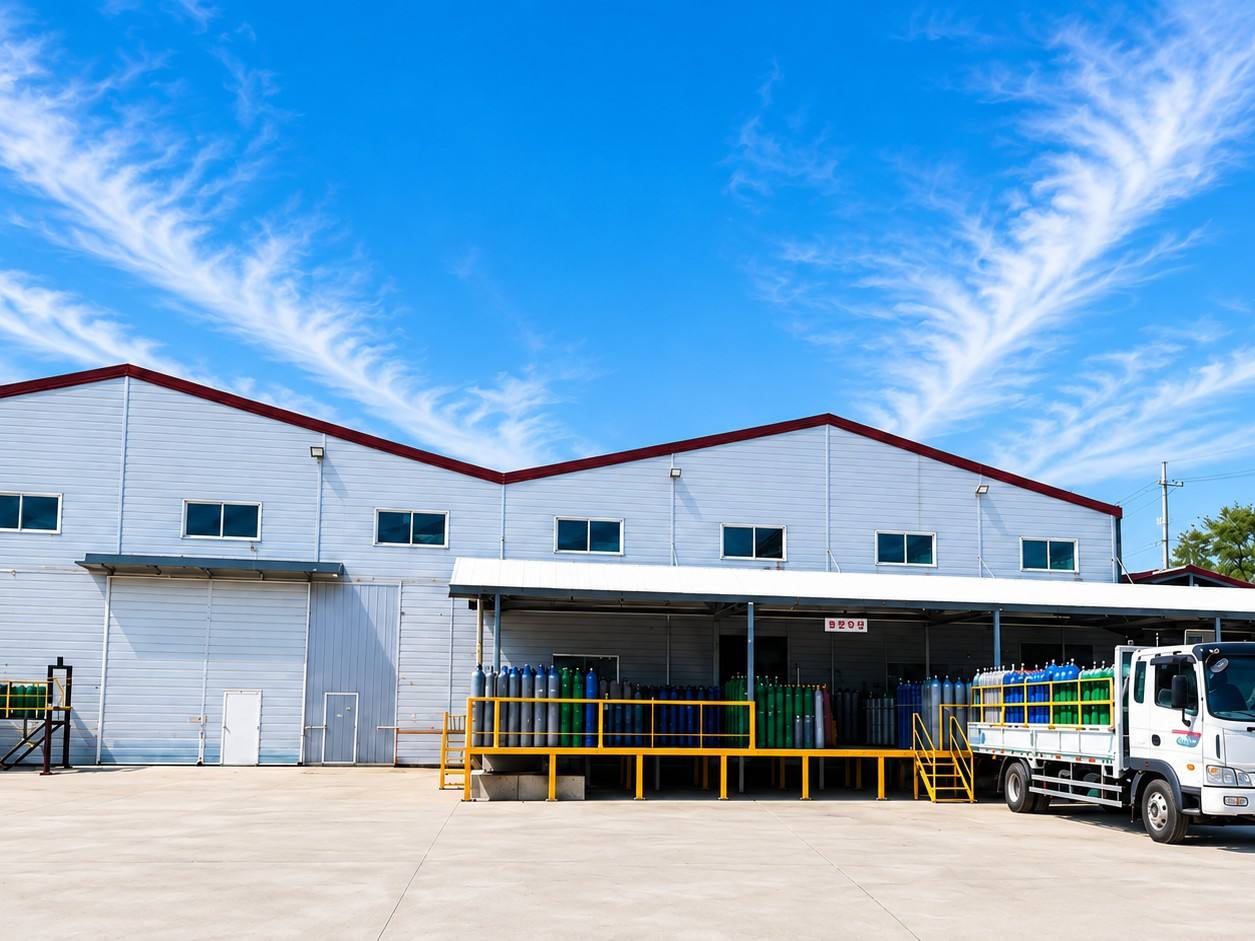
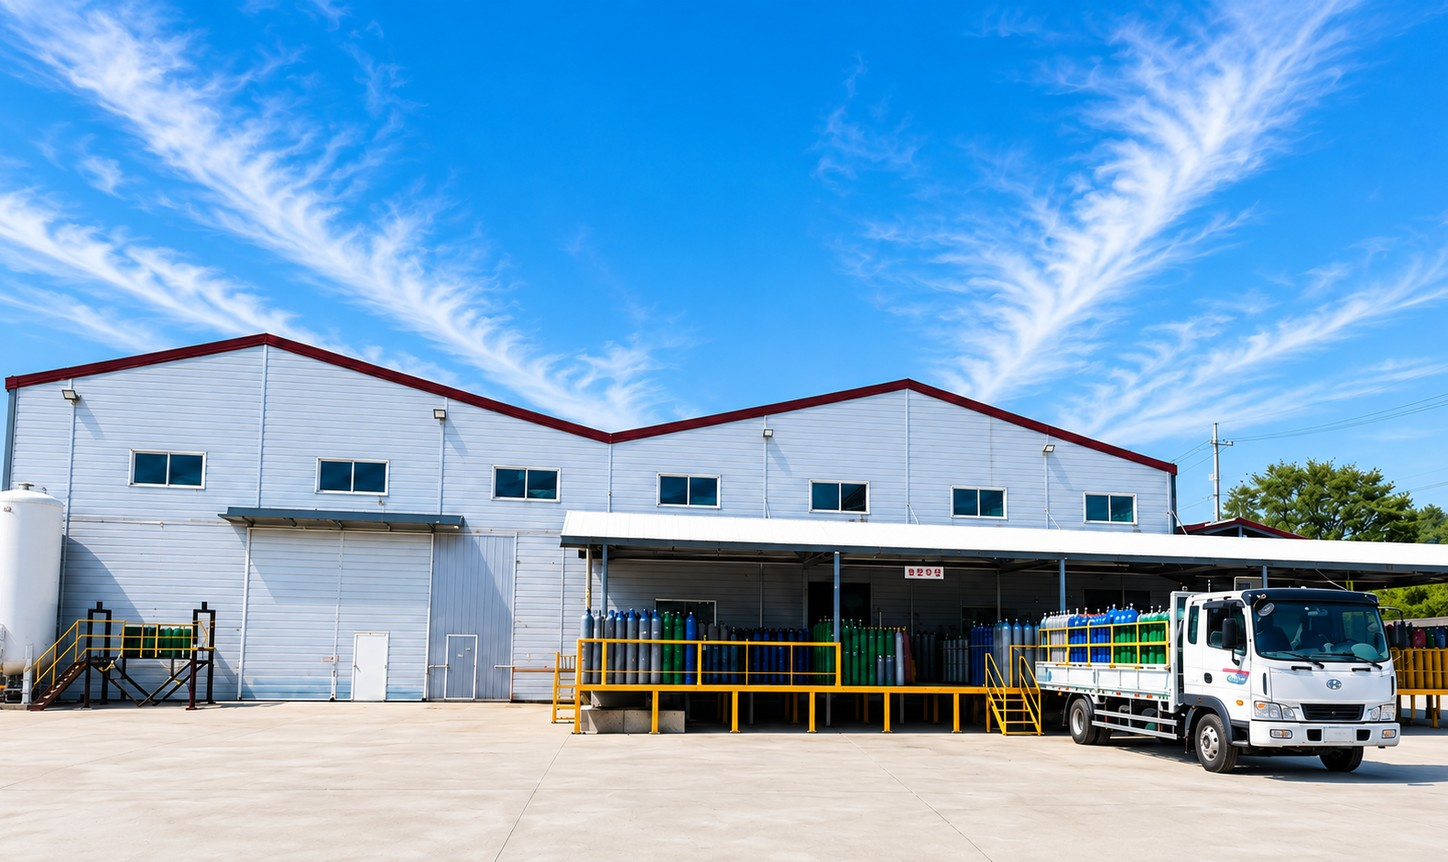
계열사 부성테크니컬: 사진을 화성공장과 동일 비율(1.68)·크기로 전체가 보이게 재크롭·박스 통일·버튼 하단 정렬, 설명 '정밀 검사'→'정밀검사' 붙여쓰기. style.css ?v=808, busung-site.jpg ?v=20260914c

diff --git a/company-network.html b/company-network.html
@@ -7,7 +7,7 @@
   <meta name="description" content="한국탄산화학㈜ 계열사 — 관계사 네트워크.">
   <link rel="stylesheet" href="assets/css/reset.css">
   <link rel="stylesheet" href="assets/css/variables.css?v=20260801">
-  <link rel="stylesheet" href="assets/css/style.css?v=20260731-807">
+  <link rel="stylesheet" href="assets/css/style.css?v=20260731-808">
   <!-- 대표이사 서명용 손글씨 폰트 (한글: Nanum Pen Script, 일어: Yomogi) -->
   <link rel="preconnect" href="https://fonts.googleapis.com">
   <link rel="preconnect" href="https://fonts.gstatic.com" crossorigin>
@@ -217,7 +217,7 @@
                 <h3 class="affpanel__name">㈜부성테크니컬</h3>
                 <span class="affpanel__eyebrow">Vessel Inspection</span>
                 <p class="affpanel__cat">용기검사 전문</p>
-                <p class="affpanel__desc">한국가스안전공사 지정 전문검사기관으로, 고압가스 용기의 정밀 검사와 유지관리를 수행합니다.</p>
+                <p class="affpanel__desc">한국가스안전공사 지정 전문검사기관으로, 고압가스 용기의 정밀검사와 유지관리를 수행합니다.</p>
                 <ul class="affpanel__list">
                   <li>
                     <span class="affpanel__ic" aria-hidden="true"><svg viewBox="0 0 24 24" fill="none" stroke="currentColor" stroke-width="1.6" stroke-linecap="round" stroke-linejoin="round"><path d="M12 21s7-6.3 7-12a7 7 0 1 0-14 0c0 5.7 7 12 7 12z"/><circle cx="12" cy="9" r="2.5"/></svg></span>
@@ -234,7 +234,7 @@
                 </a>
               </div>
               <div class="affpanel__media">
-                <img src="assets/images/site/busung-site.jpg?v=20260914b" alt="㈜부성테크니컬 용기검사 공장" loading="lazy">
+                <img src="assets/images/site/busung-site.jpg?v=20260914c" alt="㈜부성테크니컬 용기검사 공장" loading="lazy">
               </div>
             </div>
           </div>

diff --git a/assets/css/style.css b/assets/css/style.css
@@ -1084,14 +1084,14 @@ html[lang="en"] .greeting__sign .sign-name { display: block; margin-left: 0; mar
 .affpanel__map svg { width: 18px; height: 18px; }
 /* 화성공장·시화영업소: 사진이 와이드(1.68)라 정보 영역을 사진 높이에 맞춰 늘리고
    지도 버튼을 하단으로 밀어 버튼 하단을 사진 하단과 일직선으로 맞춤(문구 길이와 무관) */
-#aff-hwaseong .affpanel__info, #aff-sihwa .affpanel__info { align-self: stretch; display: flex; flex-direction: column; }
-#aff-hwaseong .affpanel__list, #aff-sihwa .affpanel__list { margin-top: var(--space-3); gap: var(--space-3); }
-#aff-hwaseong .affpanel__map, #aff-sihwa .affpanel__map { margin-top: auto; }
+#aff-hwaseong .affpanel__info, #aff-sihwa .affpanel__info, #aff-busung .affpanel__info { align-self: stretch; display: flex; flex-direction: column; }
+#aff-hwaseong .affpanel__list, #aff-sihwa .affpanel__list, #aff-busung .affpanel__list { margin-top: var(--space-3); gap: var(--space-3); }
+#aff-hwaseong .affpanel__map, #aff-sihwa .affpanel__map, #aff-busung .affpanel__map { margin-top: auto; }
 /* 계열사 패널: 정보 + 사진 2단 배열 */
 .affpanel__grid { display: grid; grid-template-columns: 1fr 1fr; gap: var(--space-10); align-items: start; }
 .affpanel__media img { display: block; width: 100%; aspect-ratio: 4 / 3; object-fit: cover; border-radius: var(--radius-md); box-shadow: var(--shadow-md); }
-/* 화성공장·시화영업소: 와이드 크롭 비율(1448:862) 통일 */
-#aff-hwaseong .affpanel__media img, #aff-sihwa .affpanel__media img { aspect-ratio: 1448 / 862; }
+/* 화성공장·시화영업소·부성테크니컬: 와이드 크롭 비율(1448:862) 통일 */
+#aff-hwaseong .affpanel__media img, #aff-sihwa .affpanel__media img, #aff-busung .affpanel__media img { aspect-ratio: 1448 / 862; }
 @media (max-width: 700px) { .affpanel__grid { grid-template-columns: 1fr; gap: var(--space-6); } }
 @media (max-width: 560px) { .afftab { flex: 1 1 50%; } }
 

diff --git a/support.html b/support.html
@@ -7,7 +7,7 @@
   <meta name="description" content="한국탄산화학 고객지원 — 사업장 연락처, 자주 묻는 질문.">
   <link rel="stylesheet" href="assets/css/reset.css">
   <link rel="stylesheet" href="assets/css/variables.css?v=20260801">
-  <link rel="stylesheet" href="assets/css/style.css?v=20260731-807">
+  <link rel="stylesheet" href="assets/css/style.css?v=20260731-808">
 </head>
 <body>
 
@@ -166,7 +166,7 @@
             </div>
           </article>
           <article class="officecard">
-            <div class="officecard__media"><img src="assets/images/site/busung-site.jpg?v=20260914b" alt="(주)부성테크니컬 용기검사 공장 전경" loading="lazy"><span class="officecard__badge officecard__badge--img" aria-hidden="true"><img src="assets/images/site/orgchart/ic-busung.png?v=20260828" alt="" loading="lazy"></span></div>
+            <div class="officecard__media"><img src="assets/images/site/busung-site.jpg?v=20260914c" alt="(주)부성테크니컬 용기검사 공장 전경" loading="lazy"><span class="officecard__badge officecard__badge--img" aria-hidden="true"><img src="assets/images/site/orgchart/ic-busung.png?v=20260828" alt="" loading="lazy"></span></div>
             <div class="officecard__body">
               <h3>(주)부성테크니컬</h3>
               <p class="officecard__addr officecard__addr--nowrap">경기도 화성시 우정읍 포승향남로 1411-24</p>

diff --git a/company.html b/company.html
@@ -7,7 +7,7 @@
   <meta name="description" content="한국탄산화학㈜ 회사소개 — 회사 개요, 주요 사업 영역, 연혁, 조직도, 생산시설 및 강점.">
   <link rel="stylesheet" href="assets/css/reset.css">
   <link rel="stylesheet" href="assets/css/variables.css?v=20260801">
-  <link rel="stylesheet" href="assets/css/style.css?v=20260731-807">
+  <link rel="stylesheet" href="assets/css/style.css?v=20260731-808">
   <!-- 대표이사 서명용 손글씨 폰트 (한글: Nanum Pen Script, 일어: Yomogi) -->
   <link rel="preconnect" href="https://fonts.googleapis.com">
   <link rel="preconnect" href="https://fonts.gstatic.com" crossorigin>

diff --git a/company-overview.html b/company-overview.html
@@ -8,7 +8,7 @@
   <meta name="description" content="한국탄산화학㈜ 회사 개요와 조직도 — 상호·설립·사업분야·생산제품 및 조직 구성.">
   <link rel="stylesheet" href="assets/css/reset.css">
   <link rel="stylesheet" href="assets/css/variables.css?v=20260801">
-  <link rel="stylesheet" href="assets/css/style.css?v=20260731-807">
+  <link rel="stylesheet" href="assets/css/style.css?v=20260731-808">
   <!-- 대표이사 서명용 손글씨 폰트 (한글: Nanum Pen Script, 일어: Yomogi) -->
   <link rel="preconnect" href="https://fonts.googleapis.com">
   <link rel="preconnect" href="https://fonts.gstatic.com" crossorigin>

diff --git a/products-supply.html b/products-supply.html
@@ -7,7 +7,7 @@
   <meta name="description" content="고압가스 용기 재검사 — 한국가스안전공사 지정 전문검사기관 ㈜부성테크니컬(계열사)이 접수·내압시험·표면처리·판정의 4단계 검사로 용기 안전을 책임집니다.">
   <link rel="stylesheet" href="assets/css/reset.css">
   <link rel="stylesheet" href="assets/css/variables.css?v=20260801">
-  <link rel="stylesheet" href="assets/css/style.css?v=20260731-807">
+  <link rel="stylesheet" href="assets/css/style.css?v=20260731-808">
 </head>
 <body>
 

diff --git a/products-ice.html b/products-ice.html
@@ -7,7 +7,7 @@
   <meta name="description" content="드라이아이스 너겟·블록 생산설비 日産 너겟 90톤·블록 100톤. 고밀도 1.60g/㎤·고순도 99.995% 식품용 드라이아이스와 제조공정·용도·취급안전을 소개합니다.">
   <link rel="stylesheet" href="assets/css/reset.css">
   <link rel="stylesheet" href="assets/css/variables.css?v=20260801">
-  <link rel="stylesheet" href="assets/css/style.css?v=20260731-807">
+  <link rel="stylesheet" href="assets/css/style.css?v=20260731-808">
 </head>
 <body>
 

diff --git a/index.html b/index.html
@@ -7,7 +7,7 @@
   <meta name="description" content="한국탄산화학㈜(KLCC)는 산소·질소·아르곤·탄산·수소 등 산업용·의료용 가스와 드라이아이스를 제조·공급하는 전문기업입니다.">
   <link rel="stylesheet" href="assets/css/reset.css">
   <link rel="stylesheet" href="assets/css/variables.css?v=20260801">
-  <link rel="stylesheet" href="assets/css/style.css?v=20260731-807">
+  <link rel="stylesheet" href="assets/css/style.css?v=20260731-808">
 </head>
 <body>
 

diff --git a/products-construction.html b/products-construction.html
@@ -7,7 +7,7 @@
   <meta name="description" content="가스 설비 시설·시공 — 액화가스 저장탱크·기화설비·배관·공급설비를 설계부터 시운전·사후관리까지 원스톱으로 시공합니다.">
   <link rel="stylesheet" href="assets/css/reset.css">
   <link rel="stylesheet" href="assets/css/variables.css?v=20260801">
-  <link rel="stylesheet" href="assets/css/style.css?v=20260731-807">
+  <link rel="stylesheet" href="assets/css/style.css?v=20260731-808">
 </head>
 <body>
 

diff --git a/products-gas.html b/products-gas.html
@@ -7,7 +7,7 @@
   <meta name="description" content="산업용·의료용·혼합·특수·액화석유가스 — 고순도 산소·질소·아르곤·수소·헬륨·탄산·LPG를 Bulk·실린더로 공급·제조합니다.">
   <link rel="stylesheet" href="assets/css/reset.css">
   <link rel="stylesheet" href="assets/css/variables.css?v=20260801">
-  <link rel="stylesheet" href="assets/css/style.css?v=20260731-807">
+  <link rel="stylesheet" href="assets/css/style.css?v=20260731-808">
 </head>
 <body>
 

diff --git a/quality.html b/quality.html
@@ -7,7 +7,7 @@
   <meta name="description" content="고순도 제조 역량, 식품첨가물 탄산가스 품질, 용기검사장, Gas Service Team.">
   <link rel="stylesheet" href="assets/css/reset.css">
   <link rel="stylesheet" href="assets/css/variables.css?v=20260801">
-  <link rel="stylesheet" href="assets/css/style.css?v=20260731-807">
+  <link rel="stylesheet" href="assets/css/style.css?v=20260731-808">
 </head>
 <body>
 
